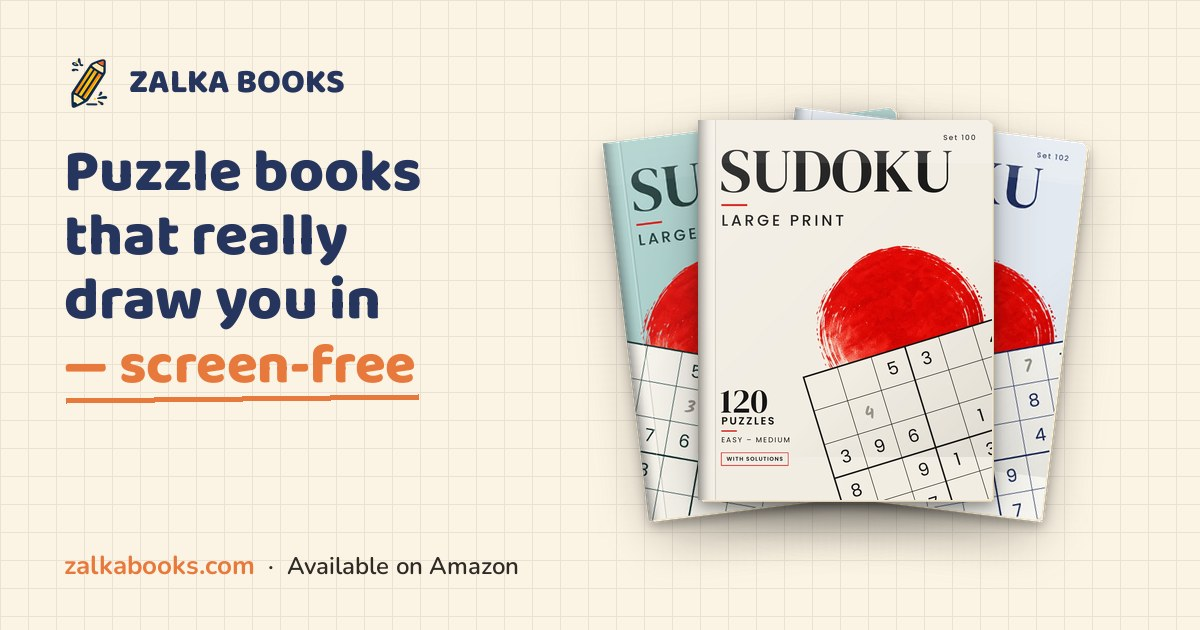
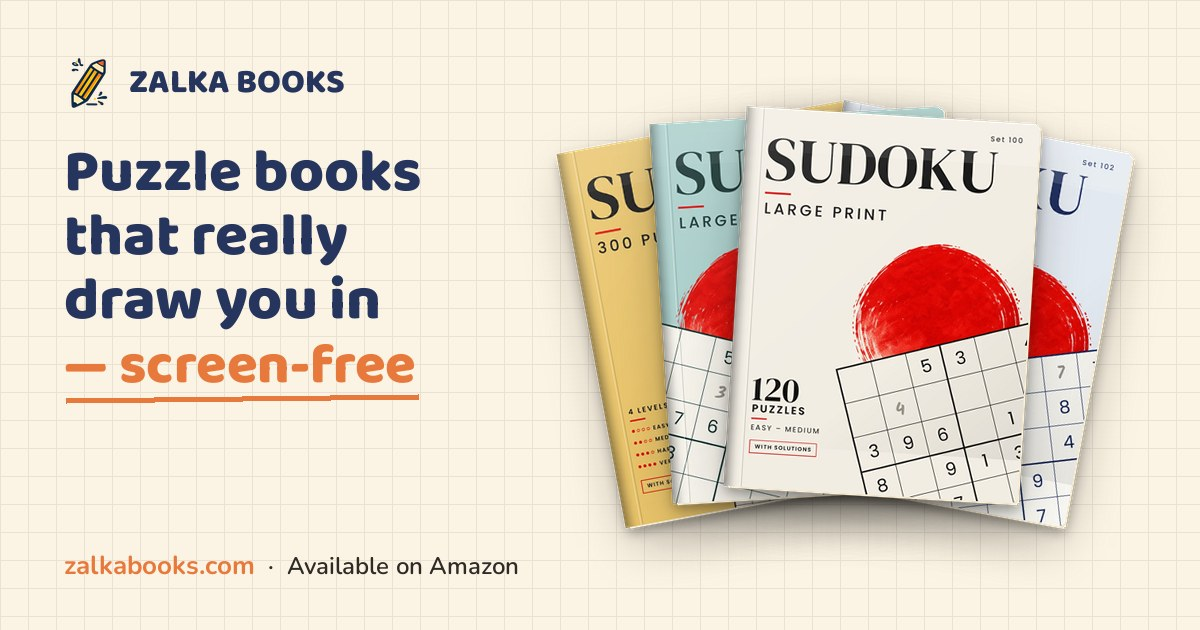
Katalog EN: Sudoku 300 Puzzles (tom 200 EN) z nowa okladka musztarda/wachlarz
Okladka wycieta z okladka-en.pdf (850x1100), obrazki OG przebudowane.

Changed region(s): [[0.4625, 0.1508, 0.9558, 0.8746]]

diff --git a/data/books.ts b/data/books.ts
@@ -506,6 +506,33 @@ export const books: Book[] = [
         '150 easy Sudoku puzzles for beginners in a really large font. Two puzzles per page, a step-by-step guide and full solutions. A calm first Sudoku book.',
     },
   },
+  {
+    slug: 'sudoku-300-puzzles-200',
+    title: 'Sudoku',
+    subtitle: '300 puzzles from easy to very hard',
+    ageRange: 'Dorośli',
+    category: 'sudoku',
+    audience: 'dorosli',
+    lang: 'en',
+    description:
+      'One grid, nine digits and a moment just for you. This book contains 300 Sudoku puzzles arranged from the easiest to the hardest — you’ll start with simple ones and finish with grids that will keep you busy much longer. Every puzzle has exactly one solution and can be solved by logic alone, with no guessing. Perfect for travel, a morning coffee, a waiting room or an evening away from screens. A great gift for anyone who loves puzzles — and for yourself.',
+    features: [
+      '300 Sudoku puzzles in four levels: easy, medium, hard and very hard',
+      'An introduction to solving methods — from the basics to X-Wing, Swordfish and XY-Wing',
+      'Full solutions at the back of the book',
+      'Clear grids with bold 3×3 box lines',
+    ],
+    coverImage: '/covers/sudoku-300-puzzles-200.webp',
+    amazonUrl: 'https://a.co/d/0icV7JLn',
+    featured: true,
+    formatInches: '8.5 × 11 in',
+    pageCount: 132,
+    seo: {
+      title: '300 Sudoku Puzzles – From Easy to Very Hard',
+      description:
+        '300 Sudoku puzzles in four difficulty levels, each with exactly one solution. An introduction to techniques from the basics to X-Wing and Swordfish. Solutions included.',
+    },
+  },
 ];
 
 export function getBookBySlug(slug: string): Book | undefined {
